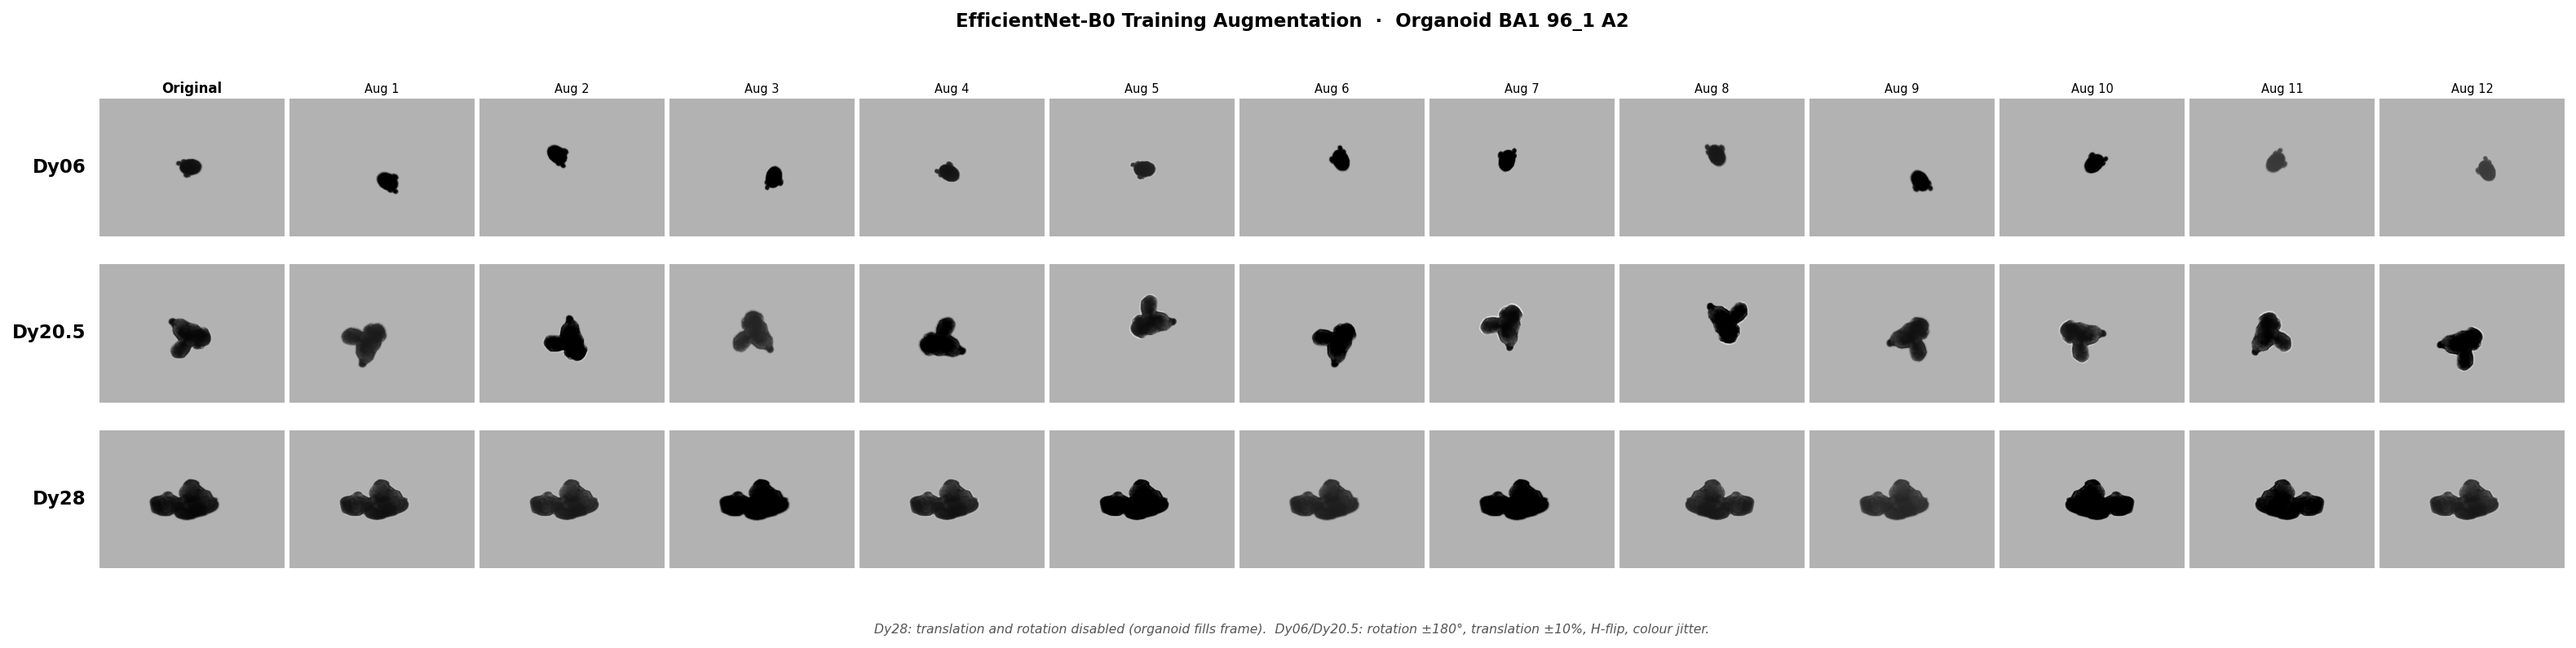
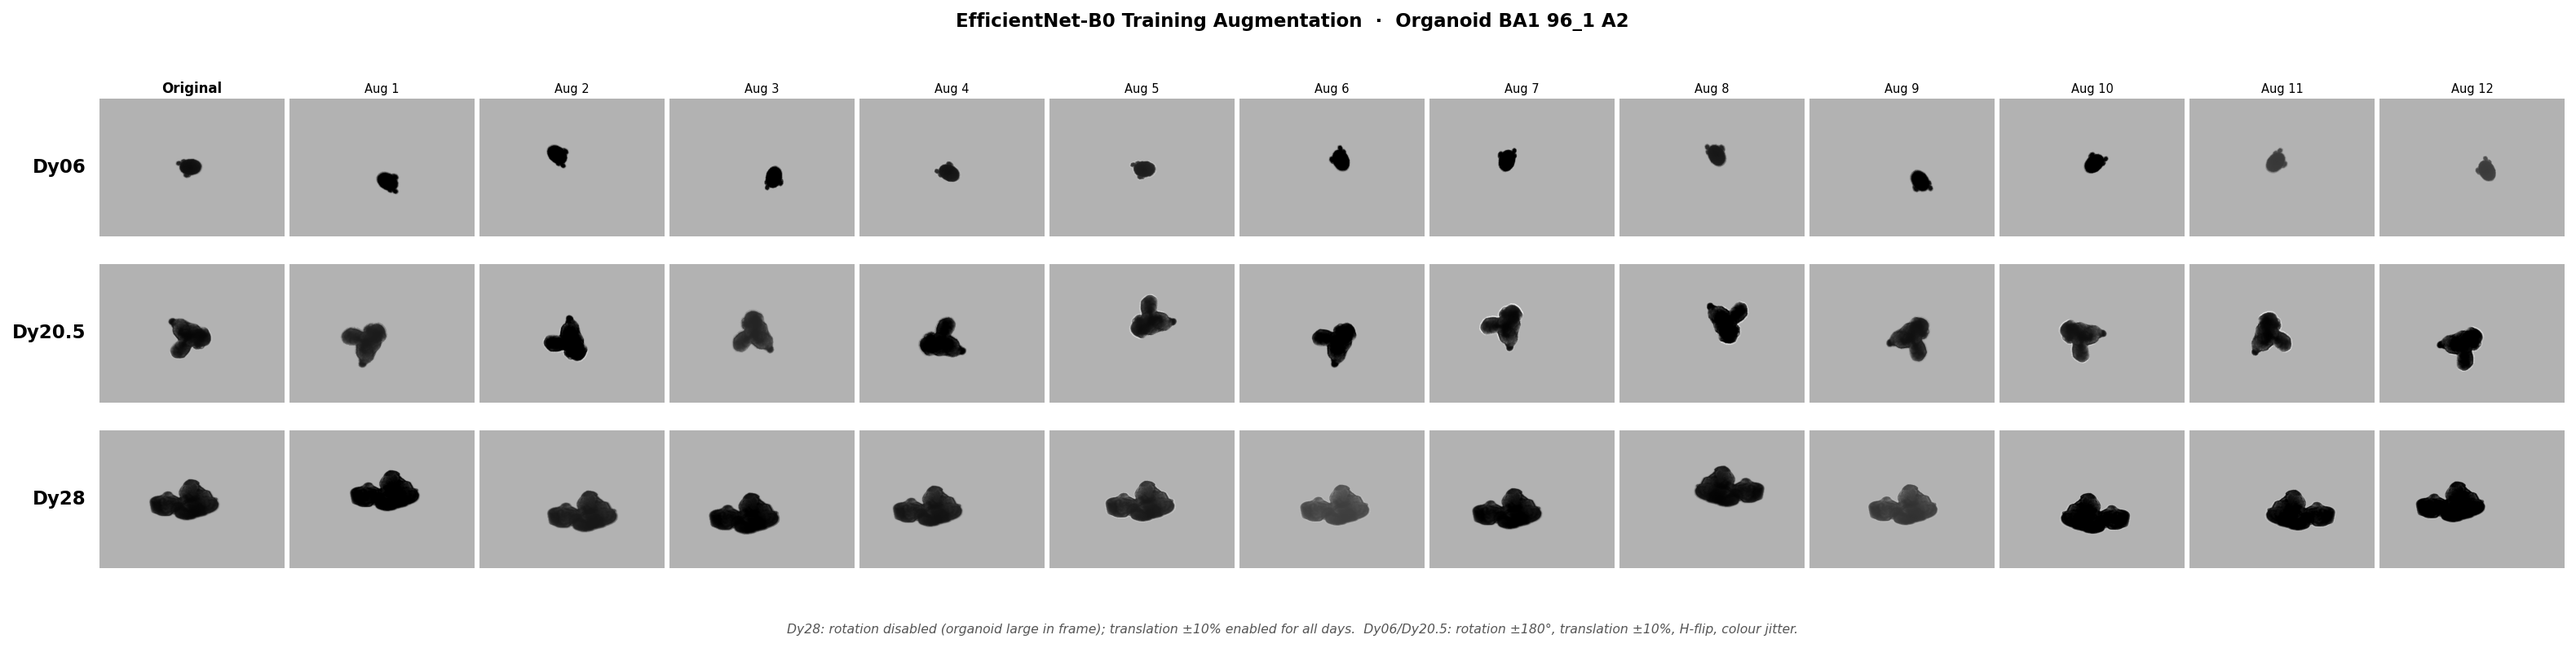
augmentation: enable translation for all days; add augment param logging
Data confirms no organoids are within 10px of the boundary after resize
(Dy28/Dy30 min margin = 113px), so translation ±10% is safe for all days.
Rotation remains disabled for boundary days (Dy28, Dy30).

perday_image_kfold.py: remove translate=None branch; log augmentation
  settings (flip, translate, rotation, ForegroundColorJitter params) at startup.
combined_kfold.py: same translate fix.
augmentation_demo.py: translate enabled for Dy28; updated caption.

diff --git a/analysis/paper_2026_04/perday_image_kfold.py b/analysis/paper_2026_04/perday_image_kfold.py
@@ -195,11 +195,10 @@ def _train_one_fold(train_paths, train_labels, val_paths, val_labels,
         return np.array([]), np.array([])
 
     set_seed(fold_seed)
-    translate = None if day in _BOUNDARY_DAYS else (0.1, 0.1)
-    degrees   = 0   if day in _BOUNDARY_DAYS else 180
+    degrees = 0 if day in _BOUNDARY_DAYS else 180
 
     train_loader = DataLoader(
-        OrganoidImageDataset(train_paths, train_labels, _build_transforms(True, translate=translate, degrees=degrees, augment=augment)),
+        OrganoidImageDataset(train_paths, train_labels, _build_transforms(True, translate=(0.1, 0.1), degrees=degrees, augment=augment)),
         batch_size=BATCH_SIZE, shuffle=True, num_workers=0,
     )
     val_loader = DataLoader(
@@ -390,8 +389,13 @@ def main():
     print(ds.summary())
     print(f"Device:      {DEVICE}")
     print(f"Filter mode: {args.filter_mode}")
+    print(f"Input mode:  {args.input_mode}")
     print(f"CV folds:    {args.n_folds}")
     print(f"Augment:     {augment}")
+    if augment:
+        print(f"  H-flip p=0.5, translate=±10% (all days)")
+        print(f"  Rotation=±180° (non-boundary days), disabled for {sorted(_BOUNDARY_DAYS)}")
+        print(f"  ForegroundColorJitter brightness=0.3 contrast=0.3 sat=0.2 hue=0.05")
 
     # Build per-organoid array (label constant across days)
     all_org_ids = [oid for oid in ds.organoid_ids

diff --git a/analysis/paper_2026_04/augmentation_demo.py b/analysis/paper_2026_04/augmentation_demo.py
@@ -99,11 +99,11 @@ def main():
             fontsize=11, fontweight="bold", va="center", ha="right",
         )
 
-        # Boundary days: disable translation and rotation (organoid fills frame)
-        is_boundary = day_label == "Dy28"
-        translate = None if is_boundary else (0.1, 0.1)
-        degrees   = 0    if is_boundary else 180
-        aug_tf = _aug_transform(translate=translate, degrees=degrees)
+        # Dy28: rotation disabled (data shows no boundary risk, but rotation
+        # of a large organoid can clip it in the non-square 384×512 frame).
+        # Translation is enabled for all days.
+        degrees = 0 if day_label == "Dy28" else 180
+        aug_tf = _aug_transform(translate=(0.1, 0.1), degrees=degrees)
 
         # Columns 1–12: augmented
         random.seed(SEED)
@@ -130,7 +130,7 @@ def main():
 
     # Note about Dy28 translation
     fig.text(0.5, 0.01,
-             "Dy28: translation and rotation disabled (organoid fills frame).  "
+             "Dy28: rotation disabled (organoid large in frame); translation ±10% enabled for all days.  "
              "Dy06/Dy20.5: rotation ±180°, translation ±10%, H-flip, colour jitter.",
              ha="center", va="bottom", fontsize=7.5, color="#555555",
              style="italic")

diff --git a/analysis/paper_2026_04/combined_kfold.py b/analysis/paper_2026_04/combined_kfold.py
@@ -226,10 +226,9 @@ def _train_efficientnet_fold(
     if n_pos == 0 or n_neg == 0 or len(test_paths) == 0:
         return None
     set_seed(fold_seed)
-    translate = None if day in _BOUNDARY_DAYS else (0.1, 0.1)
-    degrees   = 0   if day in _BOUNDARY_DAYS else 180
+    degrees = 0 if day in _BOUNDARY_DAYS else 180
     train_loader = DataLoader(
-        _ImgDataset(train_paths, train_labels, _build_transforms(True, translate, degrees)),
+        _ImgDataset(train_paths, train_labels, _build_transforms(True, (0.1, 0.1), degrees)),
         batch_size=BATCH_SIZE, shuffle=True, num_workers=0)
     val_loader = DataLoader(
         _ImgDataset(val_paths, val_labels, _build_transforms(False)),
